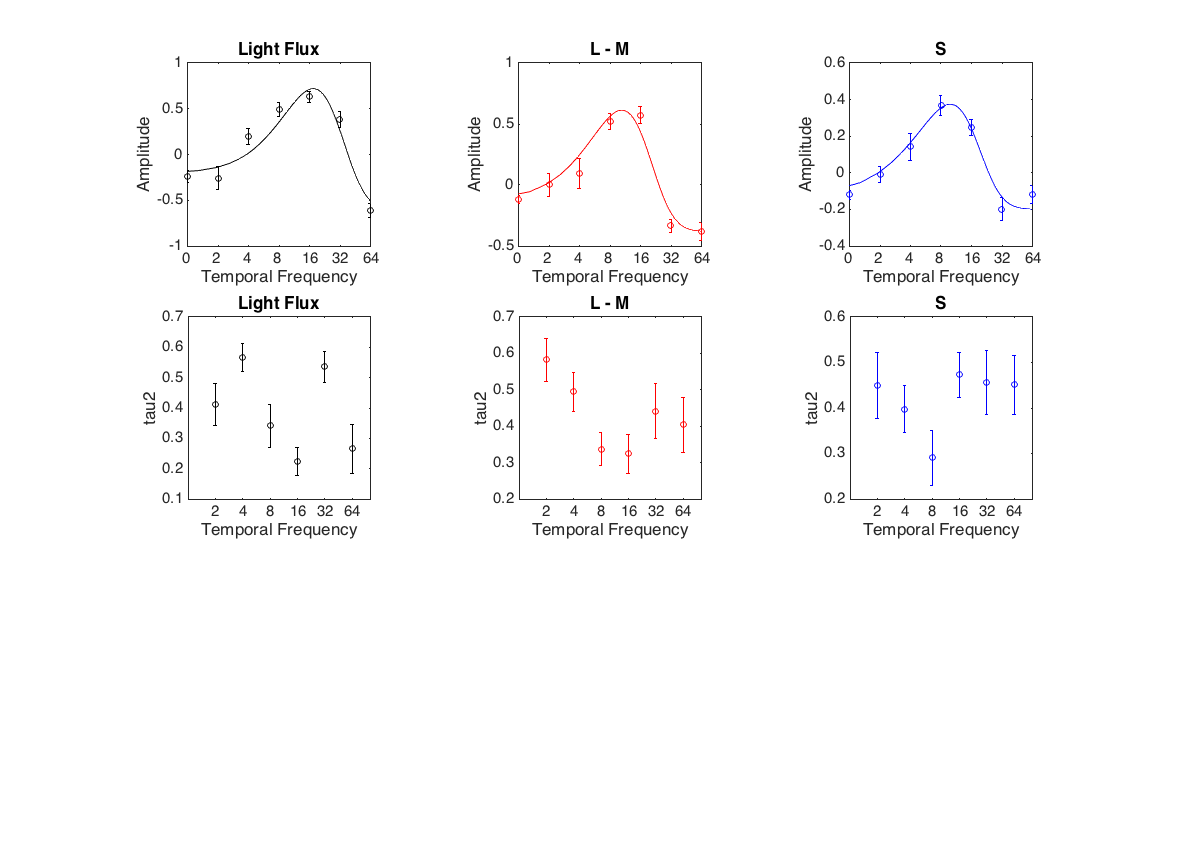
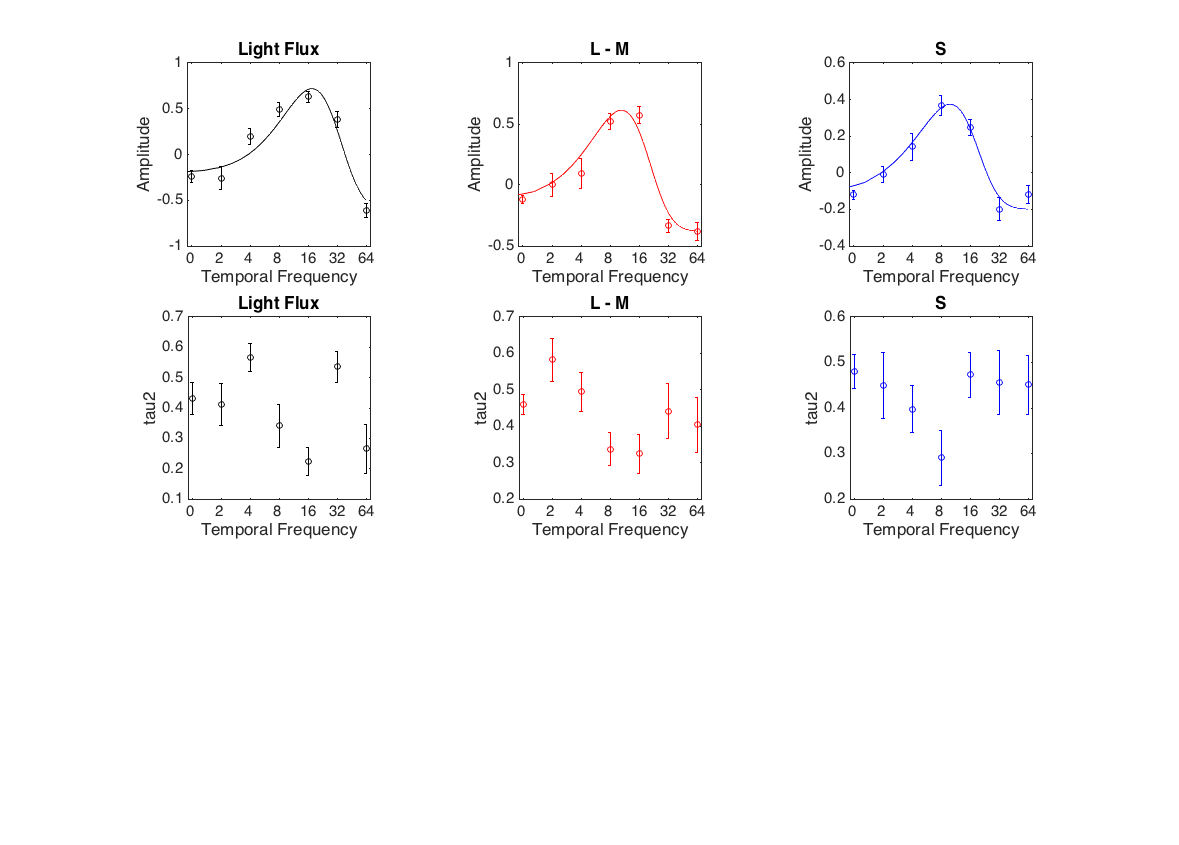
fixed figures

diff --git a/plotFuncs/plotParamsWrapper.m b/plotFuncs/plotParamsWrapper.m
@@ -44,7 +44,7 @@ for i = 1:size(meanMatrix,1)
        set(gca,'Xtick',actualStimulusValuesToPlot); title(stimTypeString); axis square;
        set(gca,'Xticklabel',actualStimulusValues);
        set(gca,'Xscale','log'); xlabel(xString); ylabel(paramTypeString);
-       xlim([min(actualStimulusValuesToPlot) max(actualStimulusValuesToPlot)]);
+       xlim([min(actualStimulusValuesToPlot).*0.9 max(actualStimulusValuesToPlot).*1.1]);
    else
        subplot(3,3,plotPosition(i))  
        % because of log scale, a value of 0 must be plotted as 1
@@ -54,7 +54,7 @@ for i = 1:size(meanMatrix,1)
        set(gca,'Xtick',actualStimulusValuesToPlot); title(stimTypeString); axis square;
        set(gca,'Xticklabel',actualStimulusValues);
        set(gca,'Xscale','log'); xlabel(xString); ylabel(paramTypeString);
-       xlim([min(actualStimulusValuesToPlot) max(actualStimulusValuesToPlot)]);
+       xlim([min(actualStimulusValuesToPlot).*0.9 max(actualStimulusValuesToPlot).*1.1]);
    end
 end
 

diff --git a/fullBDCM.m b/fullBDCM.m
@@ -6,7 +6,7 @@ AddToMatlabPathDynamically('BCDMToolbox');
 
 %% Specify Subject & Session, With Dropbox Folder
 
-subj_name = 'HERO_asb1' ; 
+subj_name = 'HERO_gka1' ; 
 % *** Subject Pool ***
 %     'HERO_asb1'--NOTE THAT ASB1 HAS 2 EXTRA LIGHTFLUX B AND 2 EXTRA S A
 %                  RUNS--WE USE THE FIRST 2 OF EACH
